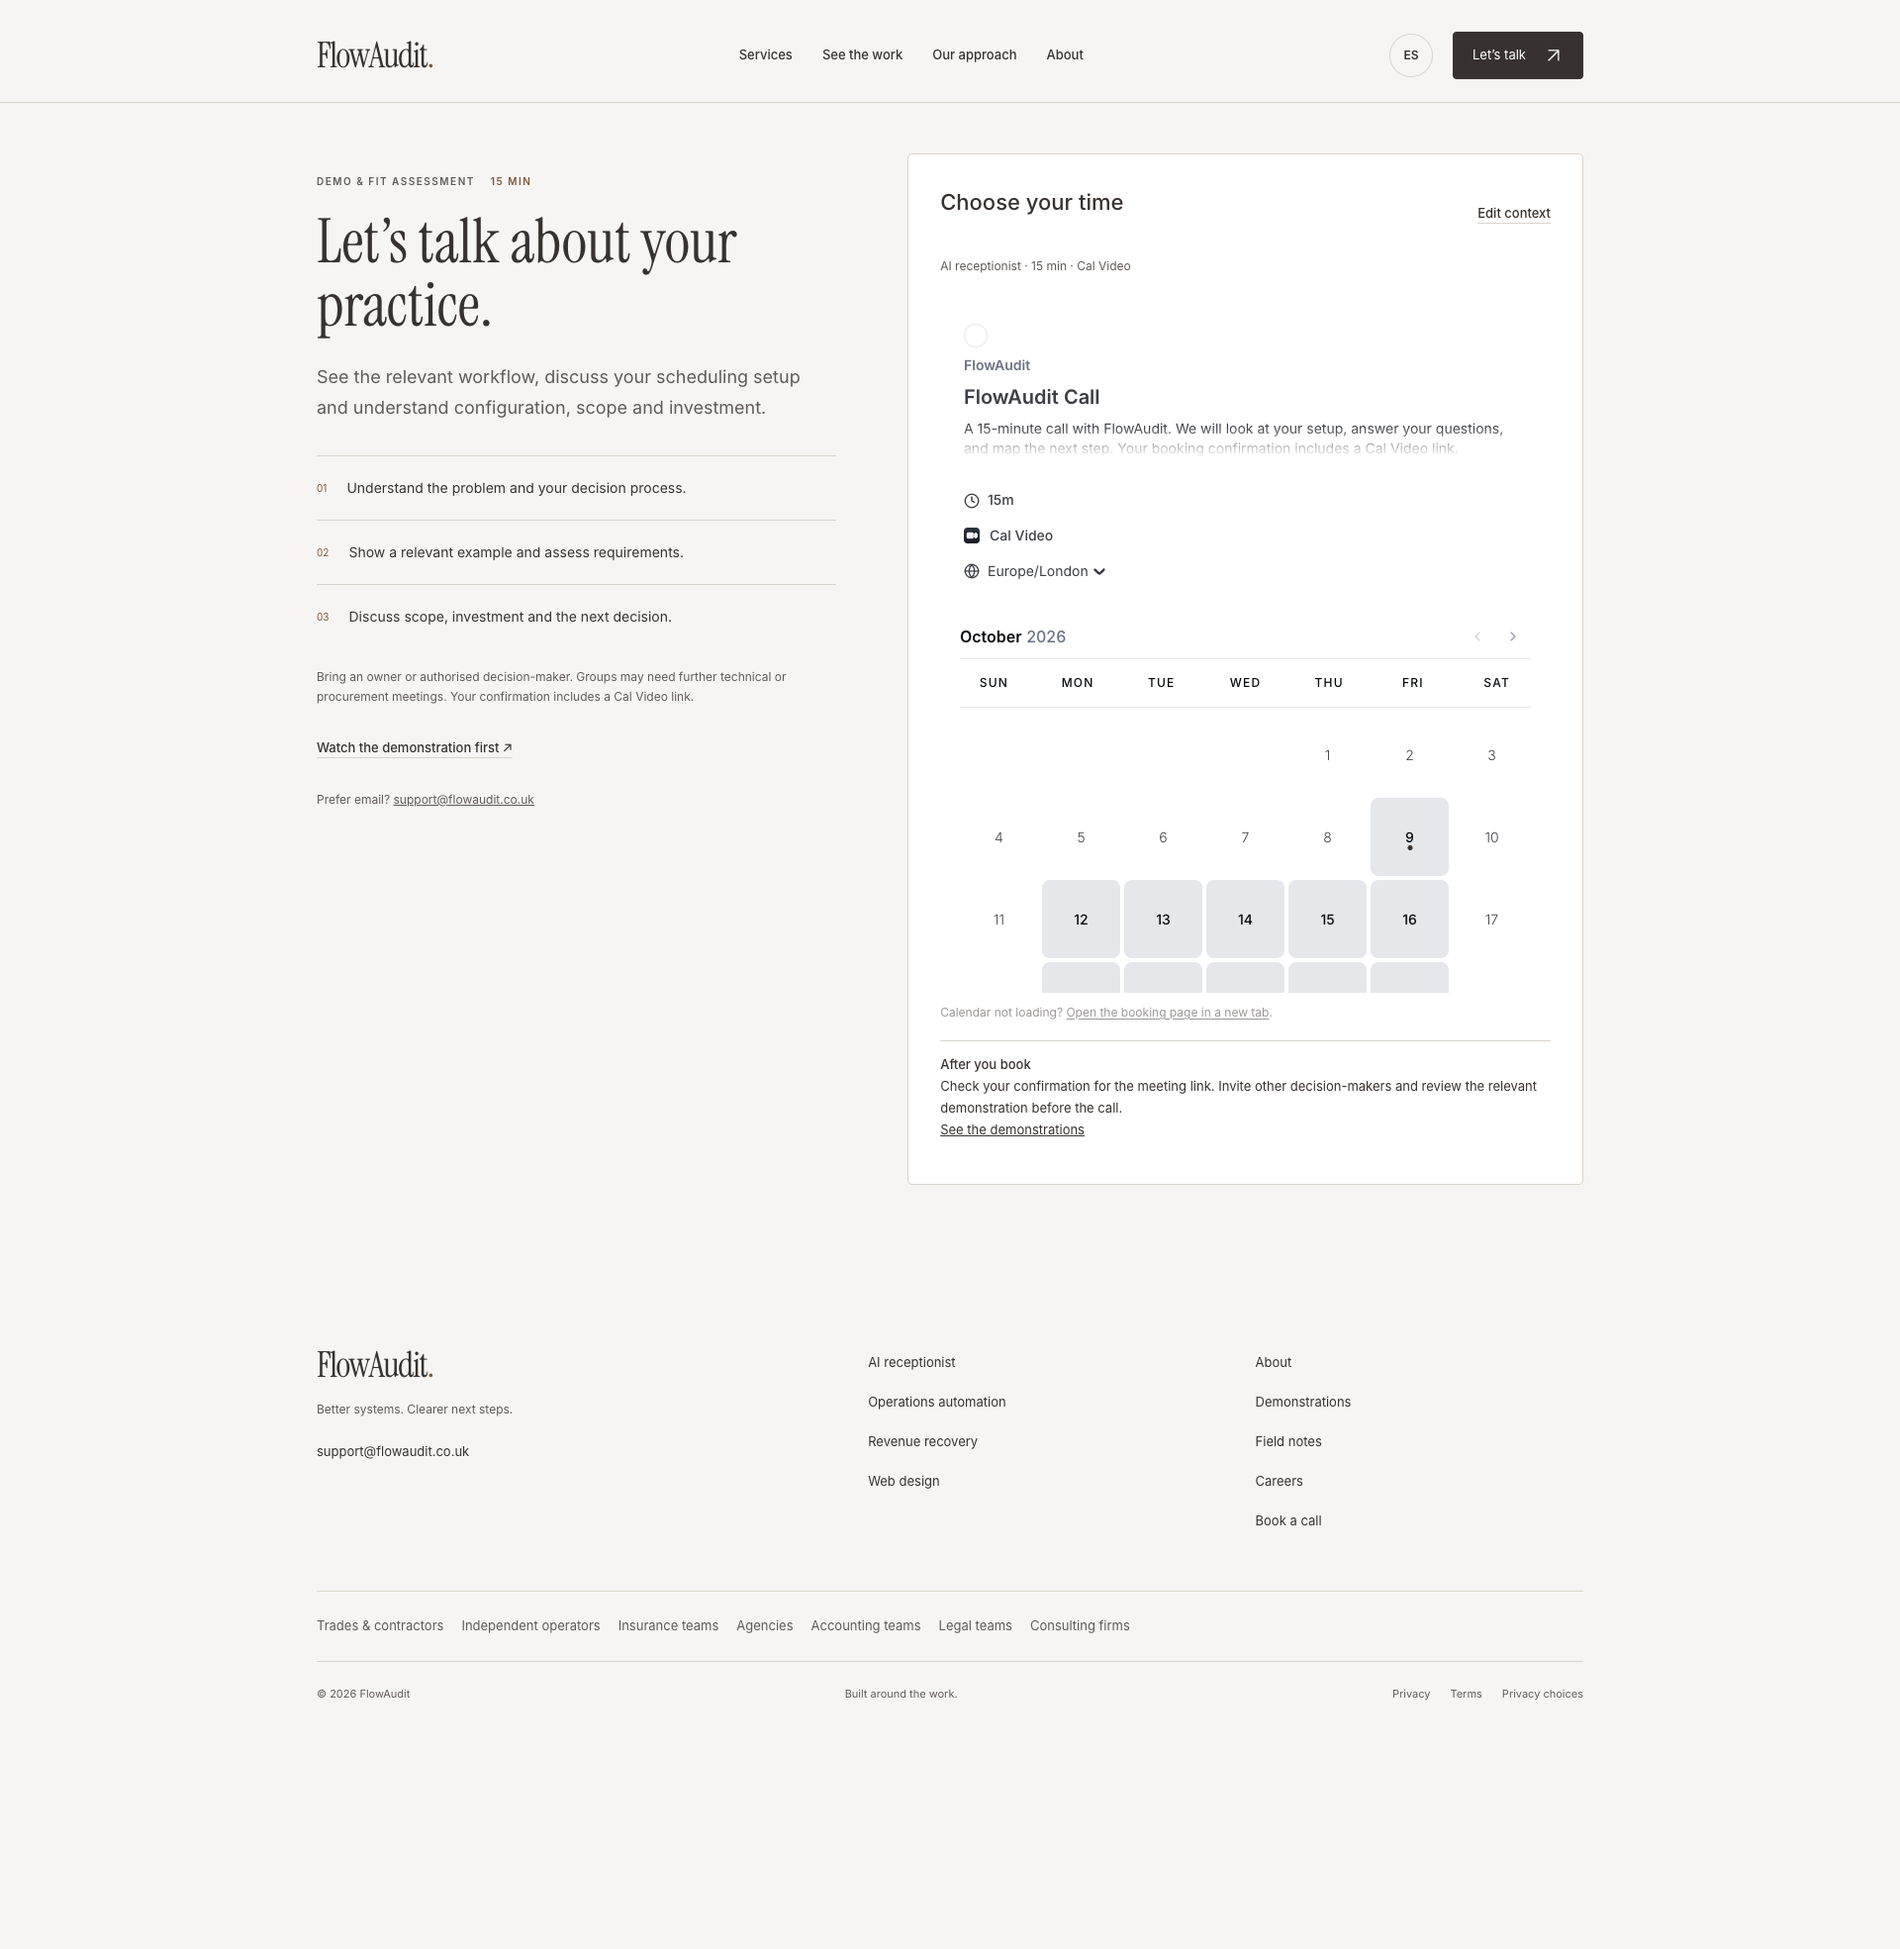
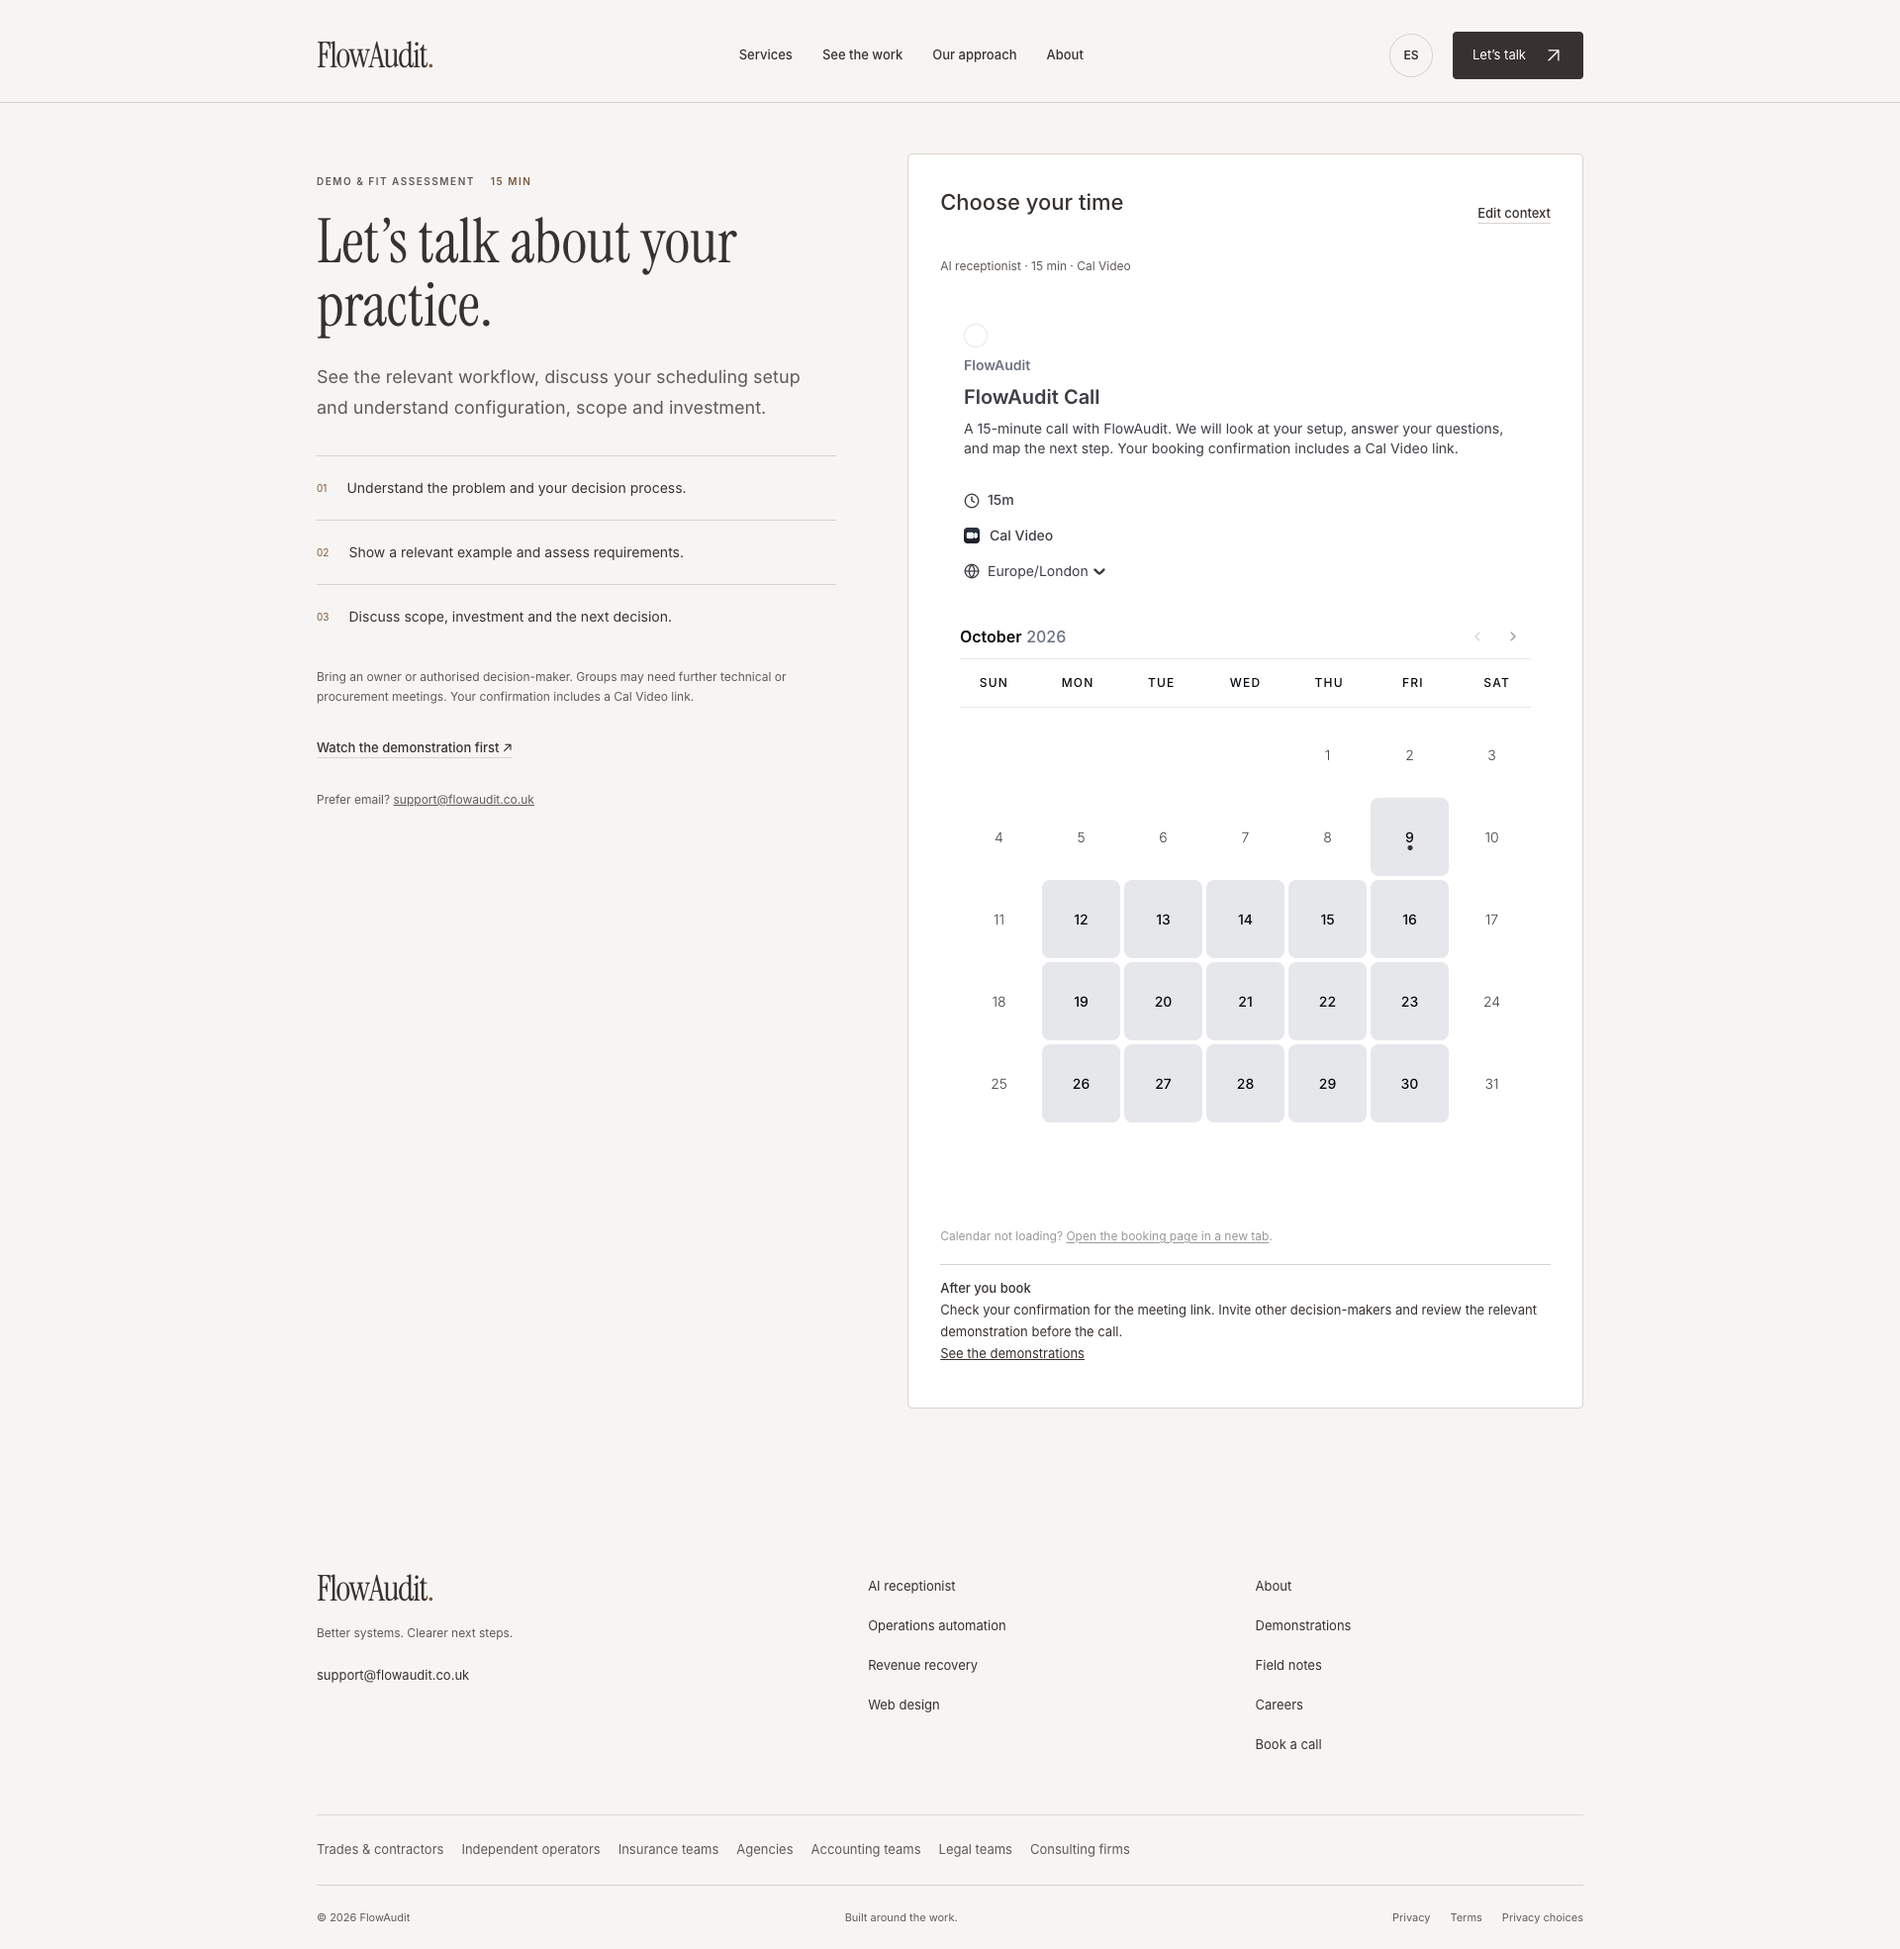
Document final browser verification and release dependencies

diff --git a/docs/redesign/QA-REPORT.md b/docs/redesign/QA-REPORT.md
@@ -1,0 +1,41 @@
+# Redesign QA report · 9 October 2026
+
+Implementation is complete in `feat/premium-redesign`; live-domain promotion remains gated on review and the external dependencies below. Draft PR: https://github.com/curtisboadum/flowaudit-platform/pull/20. Baseline was `838e09858942e7e435225582d14c09fd24dd2da5`; the application implementation commit is `9a55ca4`. Later commits update evidence and this handoff.
+
+## Verified
+
+- Optimized Next 15.5.27 production build, strict typecheck, lint and 16 unit tests pass.
+- 18 Playwright regression tests pass. They cover public pages/metadata, bilingual persistence, mobile menu/Escape, editable qualification, direct-calendar bypass, referral context, keyboard film tabs, transcripts, consent and CRM/404 recovery.
+- 28 public routes checked at 390 and 1440px: zero WCAG 2 A/AA, 2.1 AA and 2.2 AA tagged axe violations, zero detected horizontal overflow, no page errors. Four core journeys also checked at 360/768/1024/1920. Total report contains 76 checks. All 33 discovered first-party links returned successful responses. Client access uses its availability-aware support path.
+- A 720px layout at a nominal 1440px viewport verifies 200% reflow-equivalent behaviour: no overflow or axe violations. This is a reflow check, not a claim of assistive-technology certification or exhaustive native browser zoom testing.
+- Real Cal embed loaded with service/context/referral data and one iframe; direct fallback preserves context. No real appointment was created. Provider-owned confirmation and Cal Video remain the meeting path. Optional videos never gate booking.
+- CRM unauthenticated endpoints return 401; private page redirects to login. Existing production admin credentials were used only in a local read-only regression: login 200, authenticated CRM read 200. No customer records were printed or changed.
+- RLS is enabled on CRM leads, events and rate limits. Anonymous lead read returned zero visible rows. Rate-limit transactional test returned true/true/false at limit two and was rolled back. Event IDs are unique, webhook signatures use constant-time verification, malformed bodies and foreign analytics origins are rejected.
+- Optional telemetry sends nothing and creates no journey storage before consent. Decline clears session state. Video progress uses actual watched interval coverage and rejects seek inflation. Server webhook storage failures return 503 rather than falsely reporting success.
+- Sitemap, canonical metadata, robots and Open Graph render successfully. Metadata was made blocking so booking metadata is visible reliably in the document head. Robots exclude private routes. Organization/Service JSON-LD uses actual identity and offer descriptions, with no rating or fabricated review schema.
+- Runtime `npm audit --omit=dev`: zero known vulnerabilities. Updated Next, jsPDF and transitive dependencies; migrated testing tooling; removed unused InstantDB scaffolding. A known-value credential scan found no secrets in versioned/new files. Private pricing notes are excluded from both Git and deployment.
+- GitHub CI verify, GitGuardian and Vercel checks passed on the implementation revision. The preview retains existing Vercel authentication protection.
+
+## Mobile Lighthouse (local production build)
+
+| Page | Performance | Accessibility | Best practices | SEO | LCP | CLS | TBT |
+|---|---:|---:|---:|---:|---:|---:|---:|
+| Home | 95 | 100 | 100 | 100 | 2.9s | 0 | 10ms |
+| Phone agent | 93 | 100 | 100 | 100 | 3.2s | 0 | 0ms |
+| Booking | 97 | 100 | 100 | 100 | 2.6s | 0 | 0ms |
+
+These are simulated mobile lab scores, not deployed field Core Web Vitals. The agreed Lighthouse score thresholds pass; these LCP values are above 2.5s and should not be represented as a field CWV pass. Real p75 LCP/INP/CLS needs deployed traffic. A tested inline-CSS alternative scored 94/93/97 and introduced 0.02 homepage CLS, so it was rejected and the better stable stylesheet version retained. Films use native controls, preload none and posters; they do not download automatically.
+
+## Visual evidence
+
+Reviewed full-page desktop homepage and mobile phone-agent compositions plus booking, team and website pages. Screenshots for six widths are in `evidence`. Film/poster typography comes from the finished production handoff; the website does not invent an alternative product screen. The warm palette, serif headlines, ruled editorial sections, real evidence, clear CTA hierarchy and restrained motion are consistent. Reduced-motion CSS suppresses nonessential animation. Separate media QA reports pass full decode, dimensions, audio levels and sync checks; human film approval is still pending.
+
+## Remaining release dependencies and limits
+
+1. **Films:** the separate production handoff explicitly marks human listening/viewing approval pending. Review the finished main, overview, teaser and routine recording before final public release.
+2. **Cal signing:** existing production `CAL_WEBHOOK_SECRET` is empty and the account settings require sign-in. Match a secret in Cal and Vercel, then verify a signed delivery, storage, cancellation/rescheduling and retry. Until then, the public calendar works but booking lifecycle tracking is not complete. No fake booking was made to imply verification.
+3. **Revenue Recovery upstream:** its existing host returns HTTP 402 `DEPLOYMENT_DISABLED`. Current account cannot manage that deployment. Proxy contracts remain unchanged; public client access gives a support fallback. Owner restoration is required for operational client journeys.
+4. **Development advisory:** the complete audit flags five packages in the same unpatched `braces` lint-tool chain (stack-exhaustion from deeply nested glob patterns). They are development dependencies; no runtime advisory remains. Do not feed untrusted glob expressions into development lint tooling. The registry did not provide a patched braces release at audit time.
+5. **Coverage:** automated Chrome checks do not prove Safari/Firefox equivalence, full screen-reader usability, third-party Cal accessibility, legal compliance or HIPAA certification. EN/ES website UI is translated; finished films/transcripts are English and labelled accordingly. Jurisdiction-specific legal/clinical requirements remain project assessments, never public guarantees.
+
+Pricing hypotheses, cost worksheet and commercial boundaries are in the gitignored project note and `Klaus-Vault/Knowledge/FlowAudit premium website strategy and pricing.md`. Research coverage distinguishes the 445 metadata-inventoried stars from targeted code/skill review, and indexed-source checks from runtime interaction testing.

diff --git a/docs/redesign/README.md b/docs/redesign/README.md
@@ -1,0 +1,13 @@
+# FlowAudit redesign handoff
+
+- [Strategy and proof register](STRATEGY.md)
+- [Design system](DESIGN.md)
+- [Competitor intelligence and coverage](COMPETITOR-INTELLIGENCE.md)
+- [Starred repository review](REPOSITORY-REVIEW.md)
+- [Analytics definitions](ANALYTICS.md)
+- [Integration status](INTEGRATION-STATUS.md)
+- [QA report and release dependencies](QA-REPORT.md)
+
+Run `npm ci`, `npm run build`, `npm run lint`, `npm run typecheck`, `npm run test`, then `npm run test:e2e`. Browser tests start the production server automatically when needed. Extended visual/axe checks: `node scripts/qa.mjs` against a running production server on 3016. Lighthouse: `node scripts/lighthouse.mjs`. Both can be repeated when changes justify it; generated evidence should be reviewed and committed deliberately.
+
+Use `.env.example` as a names-only guide. Server CRM/event credentials remain private. The applied migration is versioned under `supabase/migrations`; do not reapply ad hoc destructive schema changes. No public testimonials or performance proof were created. Human film review and provider signing remain release gates.
